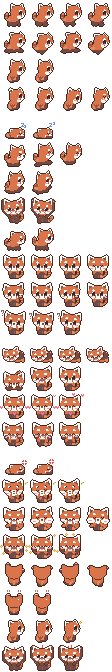
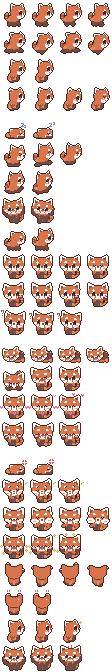
fix(art): red panda raises short stubby arms when surprised, melted into the body
Arms reached up to the ear tips and had their own outline, so the armpit looked like a
separate piece. Paws now rise only to beside the cheeks and the arm part melts into the
body silhouette (no own outline). Same for the picked-up pose.

Claude-Session: https://claude.ai/code/session_01QTKFeeLBUNBZhj6R6jJCZF

diff --git a/tools/test_draw_redpanda.py b/tools/test_draw_redpanda.py
@@ -128,22 +128,33 @@ def test_long_bushy_tail_with_darker_rings(out, st, anim):
     assert tail.sum() > 40, (st, anim)
 
 
+def top_band_dark(im, st):
+    """위 1/4 (귀 높이)의 짙은 팔다리 색 화소 수 — 팔이 귀까지 뻗으면 귓속보다 훨씬 많아진다."""
+    ys = np.nonzero(alpha(im))[0]
+    top, h = ys.min(), ys.max() - ys.min()
+    return int(near(im, rp.fur("limb", st), 26)[top: top + int(h * 0.25)].sum())
+
+
 def height(im):
     ys = np.nonzero(alpha(im))[0]
     return int(ys.max() - ys.min())
 
 
 @pytest.mark.parametrize("st", STAGES)
-def test_surprise_stands_up_tall_with_both_arms_raised(out, st):
-    """깜짝: 앞모습, 뒷발로 서서 앉은 모습(idle·sit_front)보다 크고, 두 팔(짙은 색)이 머리 높이 위쪽 양옆에 번쩍."""
+def test_surprise_stands_up_tall_with_short_stubby_arms_up(out, st):
+    """깜짝: 앞모습, 뒷발로 서서 앉은 모습(idle·sit_front)보다 크고, 짤뚱한 두 팔(짙은 색)을 볼 옆으로 번쩍 —
+    손은 얼굴 양옆에 있고, 귀 끝까지 길게 뻗지 않는다 (위 1/4의 짙은 색은 앉은 앞모습의 귓속 정도뿐)."""
     idle, sit = frame(out, st, "idle", 0), frame(out, st, "sit_front", 0)
+    ear_dark = top_band_dark(sit, st)
     for i in (1, 2):
         im = frame(out, st, "surprise", i)
         assert height(im) >= height(idle) + 8 and height(im) >= height(sit) + 6, (st, i, height(im), height(idle), height(sit))
         ys = np.nonzero(alpha(im))[0]
-        top = ys.min()
-        limb = near(im, rp.fur("limb", st), 26)[top: top + 22]
-        assert limb[:, :52].sum() > 12 and limb[:, 76:].sum() > 12, (st, i, int(limb[:, :52].sum()), int(limb[:, 76:].sum()))
+        top, h = ys.min(), ys.max() - ys.min()
+        limb = near(im, rp.fur("limb", st), 26)
+        assert top_band_dark(im, st) <= ear_dark + 12, (st, i, top_band_dark(im, st), ear_dark)
+        cheeks = limb[top + int(h * 0.25): top + int(h * 0.6)]
+        assert cheeks[:, :44].sum() > 12 and cheeks[:, 84:].sum() > 12, (st, i, int(cheeks[:, :44].sum()), int(cheeks[:, 84:].sum()))
     assert frame(out, st, "surprise", 0).tobytes() != frame(out, st, "surprise", 1).tobytes()
 
 
@@ -152,8 +163,11 @@ def test_picked_up_it_throws_both_arms_up_too(out, st):
     for i in (0, 1):
         im = frame(out, st, "dragged", i)
         ys = np.nonzero(alpha(im))[0]
-        limb = near(im, rp.fur("limb", st), 26)[ys.min(): ys.min() + 22]
-        assert limb[:, :52].sum() > 8 and limb[:, 76:].sum() > 8, (st, i)
+        top, h = ys.min(), ys.max() - ys.min()
+        limb = near(im, rp.fur("limb", st), 26)
+        assert top_band_dark(im, st) <= top_band_dark(frame(out, st, "sit_front", 0), st) + 12, (st, i)
+        side = limb[top + int(h * 0.2): top + int(h * 0.6)]
+        assert side[:, :44].sum() > 8 and side[:, 84:].sum() > 8, (st, i)
 
 
 def test_baby_is_paler_and_fluffier(out):

diff --git a/tools/draw_redpanda.py b/tools/draw_redpanda.py
@@ -9,7 +9,7 @@
           바탕(base)이 짙은 다리 색이고, 머리·몸·등은 무늬로 주황빨강을 덮는다 (다리·발·팔은 저절로 짙은 색).
 단계: 아기 = 크림빛으로 바랜 복슬 아기 (고리 둘, 정수리 털) → 유아 고리 셋·눈물 줄 → 어린이부터 고리 넷과 짙은 꼬리 끝
       → 어른 볼 털 + 귀 옆에 대나무잎 핀.
-깜짝 (surprise, 앞모습 한 번): 놀라면 뒷발로 벌떡 서서 두 팔을 머리 위로 번쩍 — 0 움찔(팔 반쯤) · 1 쭉 (!) · 2 쭉 (!!).
+깜짝 (surprise, 앞모습 한 번): 놀라면 뒷발로 벌떡 서서 짤뚱한 두 팔을 볼 옆으로 번쩍 — 0 움찔(팔 반쯤) · 1 쭉 (!) · 2 쭉 (!!).
       클릭·살짝 부딪힘에 (코어 Special::Surprise). 들어 올리면(dragged)도 두 팔 번쩍, 다리는 대롱대롱.
 """
 
@@ -161,18 +161,18 @@ def hungry(sp, i):
 
 
 def up_arm(sp, side, reach, spread):
-    """머리 위로 번쩍 든 팔 한 짝 (머리 좌표 — 머리와 함께 움직인다): 턱 아래 어깨 → 귀 옆 바깥으로 손.
-    reach: 0 귀 아래 옆으로 … 1 귀 높이 위로 · spread: 바깥으로 벌림. 머리 뒤에 그려서 머리 밖으로 나온 팔과 손만 보인다."""
+    """번쩍 든 짤뚱한 팔 한 짝 (머리 좌표 — 머리와 함께 움직인다): 어깨에서 짧게 올라와 볼 옆 바깥으로 손.
+    reach: 0 볼 높이 … 1 눈 높이 조금 위 (귀까지는 안 간다) · spread: 바깥으로 벌림. 머리 뒤에 그려서 머리 밖으로 나온 팔과 손만 보인다."""
     s, h = side, _ST["head"]
-    sx, sy = 64 + 24 * s, 96
-    hx = 64 + s * (42 * h + 9 + 5 * spread)
-    hy = 84 - (50 + 22 * reach) * h
-    elbow = (64 + s * (44 * h + 8 + 3 * spread), (sy + hy) / 2 + 8)
-    arm = L([(sx, sy), elbow, (hx, hy)], 13)
+    sx, sy = 64 + 26 * s, 98
+    hx = 64 + s * (40 * h + 10 + 4 * spread)
+    hy = 84 - (20 + 14 * reach) * h
+    elbow = (64 + s * (38 * h + 12 + 2 * spread), (sy + hy) / 2 + 4)
+    arm = L([(sx, sy), elbow, (hx, hy)], 14)
     paw = E(hx - 8, hy - 7.5, hx + 8, hy + 7.5)
     toes = [C(hx + d, hy - 6.2, 2.6) for d in (-4.6, 0, 4.6)]
     beans = ([E(hx - 3.2, hy - 1.2, hx + 3.2, hy + 4)], dp.PINK)
-    return Part([arm, paw] + toes, sp.base, [beans], grow=0, outline=True)
+    return Part([arm, paw] + toes, sp.base, [beans])  # 외곽선 없이 몸에 녹인다 — 겨드랑이 이음새가 따로 떠 보이지 않게
 
 
 def bang_fx(i, top):

diff --git a/docs/releases/v0.5.8.md b/docs/releases/v0.5.8.md
@@ -1,0 +1,3 @@
+## 🐾 짤뚱한 팔로 깜짝! 레서판다
+
+- **🐾 레서판다:** 깜짝 놀랄 때 팔이 귀 끝까지 길게 늘어나던 모습을 고쳤어요. 이제 짤뚱한 두 팔을 볼 옆으로 번쩍 들고, 팔과 몸이 이음새 없이 하나로 이어져요. 들어 올렸을 때도 같아요.
